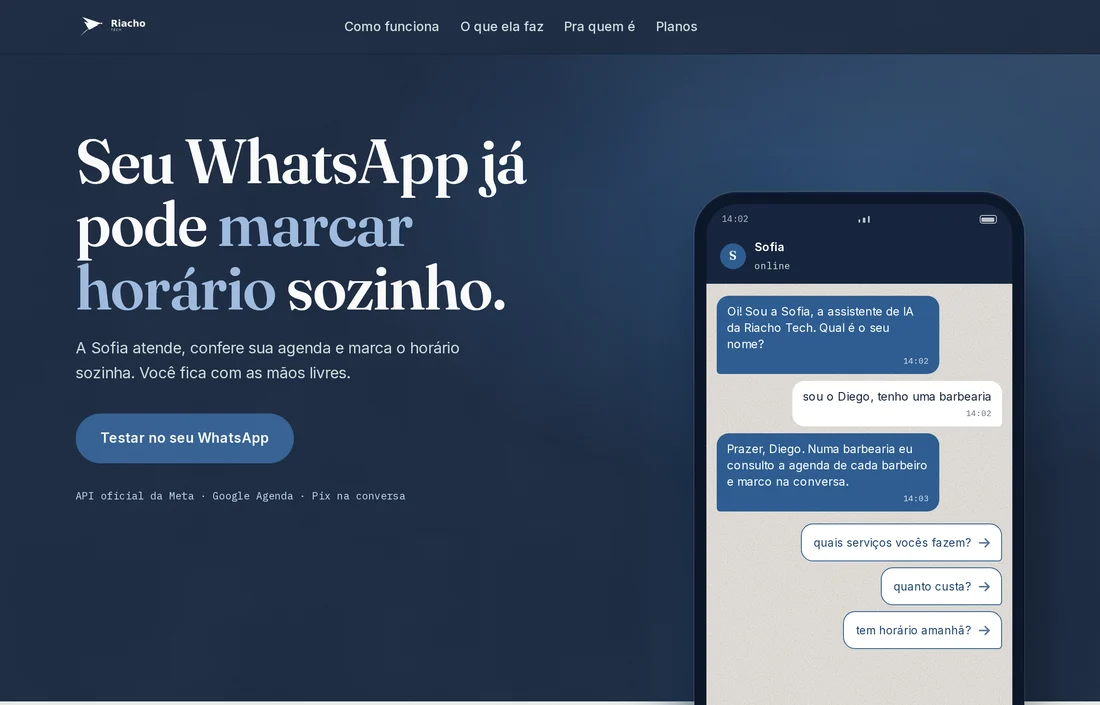
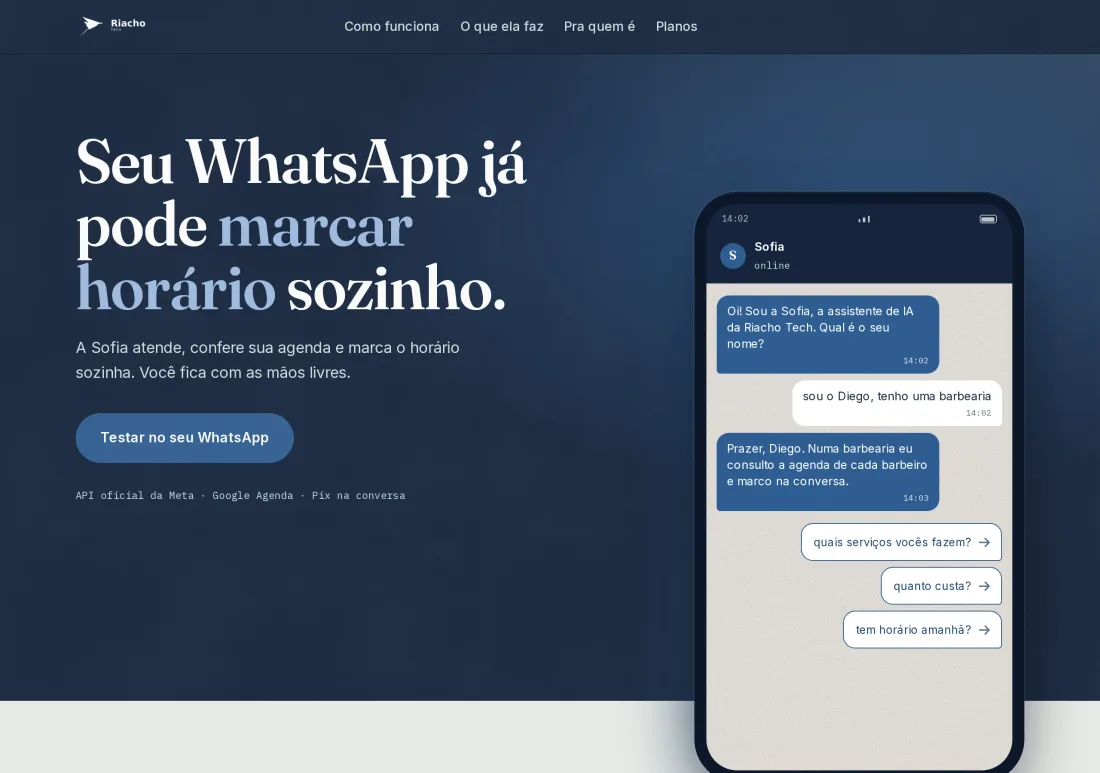
README: reescrito, e as capturas passam a mostrar o site que existe
O README descrevia uma estrutura que a home ja nao tem: falava de "O que ela
faz", "Como funciona" e "pra quem e", e os h2 de hoje sao outros. As capturas
eram de 10:15 -- depois do redesign, mas ANTES da landing page e antes da troca
da foto do catalogo, entao duas delas mostravam o site errado.

- oito capturas regeradas a partir da estrutura real, incluindo as tres
  primeiras da /landing-page/, que nao tinha nenhuma;
- quatro capturas de secoes que nao existem mais foram removidas; nenhuma
  imagem citada falta e nenhuma imagem no repositorio ficou orfa;
- 237 para 164 linhas, na forma dos READMEs irmaos: titulo que diz o que e,
  tabela de navegacao, secoes numeradas, paragrafo curto;
- sai o jargao sem funcao (CLS, LCP, is-crawlable, "raio nao concentrico") e o
  comando node -e de uma linha so, que ninguem ia rodar;
- a tabela de medicao ganha DATA e o comando que a rederiva, porque numero em
  README envelhece em silencio.

Conferido antes de commitar: os cinco scripts citados existem, as 11
conferencias batem com a saida do portao, e "tres das seis respondem ao toque" e
verdade -- seis <Bloco, tres com handler.

diff --git a/README.md b/README.md
@@ -1,237 +1,166 @@
-# riachotech-site
+# O site da Riacho Tech
 
-Site institucional da Riacho Tech, no ar em
-[riachotech.com.br](https://riachotech.com.br). A home é Next 15 + TypeScript em
-export estático — o servidor continua sem rodar build, só que agora o HTML sai
-pronto do `npm run build` em vez de ser escrito à mão. Três páginas herdadas
-(`privacidade.html`, `404.html` e `conectar/`) seguem em HTML com Tailwind
-compilado e commitado, e não mudam uma palavra.
+Duas páginas que vendem: a **home**, que apresenta a assistente de agendamento
+por WhatsApp, e a **`/landing-page/`**, que vende o serviço de landing page. No
+ar em [riachotech.com.br](https://riachotech.com.br).
 
-**Repositórios irmãos:**
-[`sofia-vitrine`](https://github.com/andrenv14/sofia-vitrine), a arquitetura do
-produto · [`sofia-eval`](https://github.com/andrenv14/sofia-eval), a avaliação
-de comportamento do modelo · [`sofia-agents`](https://github.com/andrenv14/sofia-agents), o processo
-de trabalho.
+São Next 15 em export estático — o servidor não roda build, recebe HTML pronto.
+Três páginas herdadas (`privacidade.html`, `404.html` e `conectar/`) seguem em
+HTML puro e não mudam.
+
+**Irmãos:** [`sofia-vitrine`](https://github.com/andrenv14/sofia-vitrine), a
+arquitetura do produto · [`sofia-eval`](https://github.com/andrenv14/sofia-eval),
+a avaliação de comportamento do modelo ·
+[`sofia-agents`](https://github.com/andrenv14/sofia-agents), o processo de
+trabalho.
+
+## O que tem aqui
+
+| Onde | O que é |
+|---|---|
+| [`app/`](app/), [`components/`](components/) | as duas páginas em React |
+| [`app/globals.css`](app/globals.css) | os tokens da marca — cor, tipografia, raio |
+| [`build/`](build/) | os cinco scripts que medem e travam o que vai ao ar |
+| [`public/`](public/) | as fotos e as páginas herdadas |
 
 ---
 
-## O site
+## 1. A home
 
-A primeira tela, em 1280 px. O celular da direita é markup da própria página, e
-a conversa de abertura chega mensagem a mensagem em vez de já estar lá. Não é
-captura de WhatsApp e não há cliente real nela — as perguntas são sobre a
-própria Riacho, porque o botão ao lado leva para o número onde a Sofia atende
-de verdade.
+![Primeira tela da home, 1280 px](docs/imagens/home-1280-dobra.webp)
 
-![Primeira tela do site em 1280 px](docs/imagens/home-1280-dobra.webp)
+O celular da direita é markup da própria página, não captura de WhatsApp. A
+conversa chega mensagem a mensagem, e as perguntas são sobre a própria Riacho —
+o botão ao lado leva ao número onde a assistente atende de verdade.
 
-"O que ela faz" é a seção que carrega o argumento. Cada bloco mostra o
-**artefato** daquela capacidade em vez de afirmá-la: o evento como nasce no
-Google Agenda, as duas mensagens da cobrança, os dois lembretes, o item do
-catálogo, o áudio transcrito e a conversa mudando de mão com a marca de quem
-falou. Três dos seis respondem ao toque — escolher um horário reescreve o evento
-**e** os dois lembretes, porque as três peças leem o mesmo objeto.
+A seção de capacidades mostra o **artefato** de cada uma em vez de afirmá-la: o
+evento como nasce no Google Agenda, as mensagens da cobrança, os lembretes, o
+item do catálogo com foto e preço. Três das seis respondem ao toque — escolher
+um horário reescreve o evento e os dois lembretes, porque as peças leem o mesmo
+objeto.
 
-![Seção "o que ela faz" em 1280 px](docs/imagens/home-1280-recursos.webp)
+![Seção de capacidades, 1280 px](docs/imagens/home-1280-capacidades.webp)
 
-"Como funciona" conta o fluxo pela HORA, e não por `01 — 02 — 03`: um ordinal
-diz "este é o segundo", a hora diz "isto levou um minuto", que é o argumento de
-venda. O rastro azul atravessa os três passos um de cada vez.
+E os planos, que é onde o site precisa ser mais claro:
 
-![Seção "como funciona" em 1280 px](docs/imagens/home-1280-como-funciona.webp)
+![Seção de planos, 1280 px](docs/imagens/home-1280-planos.webp)
 
-Em 390 px, três telas de celular — a primeira, o começo de "o que ela faz" e a
-lista de ramos. A lista troca o exemplo por ramo (clínica, escritório,
-barbearia, petshop, oficina) sem recarregar nada, e as cinco conversas fecham o
-agendamento: antes elas paravam na pergunta, e mostravam a Sofia oferecendo sem
-nunca marcar.
-
-Da esquerda para a direita: a primeira tela, "o que ela faz" e "pra quem é".
+Em 390 px:
 
 <p>
-  <img src="docs/imagens/home-390-dobra.webp" alt="Primeira tela do site em 390 px" width="255">
-  <img src="docs/imagens/home-390-recursos.webp" alt="Seção o que ela faz em 390 px" width="255">
-  <img src="docs/imagens/home-390-segmentos.webp" alt="Seção por ramo em 390 px" width="255">
+  <img src="docs/imagens/home-390-dobra.webp" alt="Primeira tela da home em 390 px" width="255">
+  <img src="docs/imagens/home-390-capacidades.webp" alt="Seção de capacidades em 390 px" width="255">
 </p>
 
-<!-- Largura fixa em `<img>`, e não uma tabela de três colunas: numa tabela o
-     GitHub dimensiona cada coluna pelo conteúdo do cabeçalho, então "a primeira
-     tela" e "pra quem é" davam colunas de larguras diferentes e as três telas
-     saíam com tamanhos diferentes, embora os arquivos tenham os mesmos 780x1688.
-     Achado do fundador. -->
+## 2. A `/landing-page/`
 
-E a seção de planos, que é onde o site precisa ser mais claro:
+![Primeira tela da landing page, 1280 px](docs/imagens/landing-1280-dobra.webp)
 
-![Seção de planos em 1280 px](docs/imagens/home-1280-planos.webp)
+Ela precisa **ser** a amostra do que vende: se não for a melhor página do site,
+desmente a própria oferta. Herda inteiro o vocabulário da home.
 
-## Stack
+A peça do herói **atravessa** a borda de baixo e termina dentro da seção
+seguinte. Isso é deliberado, e a alternativa foi testada: recortar a peça rente
+à virada de cor dá um corte reto num cartão branco, que lê como amputação.
 
-- **Home** — Next 15, React 19, TypeScript, Tailwind 4, `output: 'export'`. Sem
-  servidor: o `npm run build` gera arquivos estáticos. Os tokens de cor,
-  tipografia e raio vivem no `@theme` de `app/globals.css`, que é a fonte
-  executável da marca.
-- **Fontes** — Fraunces, Inter e IBM Plex Mono vêm por `next/font`, baixadas no
-  BUILD e servidas do próprio domínio. Isso mudou desde a versão anterior deste
-  README, que dizia o contrário: antes elas vinham do Google Fonts pela rede, e
-  se a rede falhasse a página renderizava com fonte de sistema sem nada acusar.
-  As três páginas herdadas ainda dependem do Google Fonts.
-- **Páginas herdadas** — `privacidade.html` e `404.html` consomem o `site.css`,
-  Tailwind compilado a partir de `build/tailwind-input.css` e commitado, porque
-  o servidor não roda build. `conectar/` tem `<style>` próprio.
-- **Zero biblioteca de animação.** Todo movimento é CSS, e todo movimento
-  desliga com `prefers-reduced-motion`.
+Para atravessar, ela precisa ser **absoluta e transbordar**, as duas coisas
+juntas — com só uma das duas, falha pela que falta. Absoluta, não entra na conta
+da altura do herói; sem recorte, o que passa disso invade a seção clara.
 
-## O que vale olhar aqui
+No celular não há espaço para atravessar, então a peça é cortada rente à dobra e
+**desvanece** antes da borda. Sem o desvanecimento o corte caía onde calhasse —
+partiu "Corte · R$ 60" com as letras 34% visíveis, e meia letra cortada lê como
+falha de renderização. A máscara resolve por critério: o conteúdo some antes da
+borda, seja qual for.
 
-**`build/conferir-estaticas.js`** é o portão do export, e roda dentro do
-`npm run build`. São 11 conferências, e a que mais importa: a âncora
+<p>
+  <img src="docs/imagens/landing-390-dobra.webp" alt="Primeira tela da landing page em 390 px" width="255">
+</p>
+
+O preço é público e está na página, sem "fale com um especialista":
+
+![Seção de preço da landing page, 1280 px](docs/imagens/landing-1280-preco.webp)
+
+## 3. O que trava o que vai ao ar
+
+Cinco scripts em [`build/`](build/). Os dois primeiros são os que importam.
+
+**`conferir-estaticas.js`** roda dentro do `npm run build` e reprova o export se
+algo essencial sumir. São 11 conferências, e a que mais importa: a âncora
 `#uso-limitado-google` da política de privacidade tem de continuar existindo —
-ela está num e-mail ao time de verificação OAuth do Google, e um revisor vai
-abri-la. O portão também prova que o texto legal saiu idêntico ao da origem, e
-tem um controle negativo (uma âncora inventada que ele precisa NÃO encontrar),
-porque comando que devolve vazio não distingue "não achei" de "não olhei".
+ela está num e-mail ao time de verificação do Google, e alguém vai abri-la. Tem
+também um controle negativo: uma âncora inventada que ele precisa **não**
+encontrar, porque comando que devolve vazio não distingue "não achei" de "não
+olhei".
 
-**`build/medir-site.js`** abre qualquer página em 390, 820 e 1280 px e devolve
-números: contraste reprovado por par cor/fundo composto, corpo abaixo de 16 px,
-alvo de toque menor que 44×44, rolagem horizontal, erro de console. Nenhuma
-mudança visual vai ao ar sem passar por ele.
+**`medir-site.js`** abre qualquer página em 390, 820 e 1280 px e devolve números:
+contraste reprovado, texto de corpo abaixo de 16 px, alvo de toque menor que
+44×44, rolagem horizontal, erro de console. Nenhuma mudança visual vai ao ar sem
+passar por ele.
 
-**`build/detectar-tells.js`** conta os padrões que fazem uma página parecer
-gerada: densidade de travessão, rótulo mono repetido, rótulo numerado, hero que
-não cabe na tela, duas chamadas querendo a mesma coisa na primeira tela, e raio
-de canto não concêntrico. Ele conta; o julgamento é de quem lê.
+Os outros três: `detectar-tells.js` conta padrões que fazem uma página parecer
+gerada por IA — ele conta, o julgamento é de quem lê; `texto-visivel.js` compara
+o texto de uma página antes e depois de uma mudança, e foi ele que garantiu que
+a política de privacidade mudasse de forma sem perder uma palavra;
+`servir-gzip.js` serve o export com compressão, que é o que o servidor faz —
+medir sem gzip dá um número pessimista sobre um servidor que não existe.
 
-**`build/texto-visivel.js`** extrai o texto visível de uma página antes e depois
-de uma mudança e compara os dois. Foi ele que garantiu que a política de
-privacidade mudasse de forma sem perder uma palavra.
+## 4. Medido
 
-**`build/servir-gzip.js`** serve o export COM compressão, que é o que a VPS faz.
-Medir sem gzip contra uma produção que comprime dá um número pessimista sobre um
-servidor que não existe — a diferença medida foi de 27 pontos de Lighthouse.
-
-**`.claude/skills/`** é como se trabalha neste site. A `design-site` traz o chão
-de regras (contraste, medida de linha, alvos, estados, foco visível) e o fluxo
-de acabamento; a `nao-slop` traz o que vem antes e depois disso — declarar a
-leitura antes de desenhar, e os tells contáveis depois. Escrevi as duas a partir
-do que serve no kit `impeccable` do `pbakaus`
-([Apache 2.0](https://github.com/pbakaus/impeccable)) e da `taste-skill` do
-`Leonxlnx`, que não instalei: o primeiro traz um hook que reescreve
-`.claude/settings.local.json` a cada edição de interface, e permissão só muda
-quando uma pessoa decide.
-
-## Medido
-
-Nas três páginas, com o servidor local com gzip e o Chromium do Playwright:
+Medido em 08/09/2026, nas três páginas, com gzip e o Chromium do Playwright.
+Os números de contraste, corpo e alvo se rederivam com `npm run medir`; os de
+Lighthouse, com o Chromium sobre `npm run servir`.
 
 | | home | privacidade | 404 |
 |---|---:|---:|---:|
 | acessibilidade | 100 | 100 | 100 |
 | performance | 89 | 93 | 95 |
 | boas práticas | 96 | 100 | 96 |
-| SEO | 100 | 63 | 60 |
-| CLS (quanto a página pula ao carregar) | 0 | 0,021 | 0 |
-| contraste reprovado (390/820/1280) | 0 | 0 | 0 |
-| corpo abaixo de 16 px | 0 | 0 | 0 |
-| alvo abaixo de 44×44 | 0 | 3 em 390, 5 acima | 0 |
+| contraste reprovado | 0 | 0 | 0 |
+| texto de corpo abaixo de 16 px | 0 | 0 | 0 |
+| alvo de toque abaixo de 44×44 | 0 | 3 a 5 | 0 |
 
-O SEO baixo nas duas últimas é `is-crawlable`, e é de propósito: as duas têm
-`<meta robots noindex>`.
+Os alvos da política são links dentro de parágrafo, exceção declarada. São 3 em
+390 px e 5 nas larguras maiores: um link que cabe numa linha em tela larga quebra
+em duas na estreita, e quebrado deixa de ser contado. **Medida de acessibilidade
+lida numa largura só é medida incompleta** — o mesmo engano já tinha escondido
+dois alvos da home, que a barra de topo cobria em 390 px.
 
-Os alvos da política são links dentro de parágrafo — exceção declarada na skill.
-**São 3 em 390 px e 5 em 820 e 1280**, e a versão anterior deste README dizia
-"3" porque só o número de 390 tinha sido lido. Os dois que só aparecem acima de
-390 são o link "Google API Services User Data Policy", que em telas largas cabe
-numa linha e nas estreitas quebra em duas — quebrado, ele deixa de ser contado
-como um alvo baixo. É o mesmo engano que a barra de topo escondeu por semanas:
-lá os dois únicos alvos reprovados da home sumiam da medição porque em 390 o
-nav os esconde. **Medida de acessibilidade lida numa largura só é medida
-incompleta**, e as duas vezes o buraco ficou do mesmo lado.
-
-A performance da home não é meta, e isso é decisão do dono: CLS zero não se
-troca por pontos. O número oscila de 89 a 93 entre rodadas — o que se persegue é
-regressão grande, e uma apareceu: a luz do hero, animando desde o primeiro
-quadro, custou 4 pontos e meio segundo de LCP. Dois segundos de atraso no início
-da animação devolveram os dois, e ninguém vê diferença numa ida e volta de 26 s.
-
-## Escopo
-
-O redesign de 08/09/2026 mexeu na home inteira e não tocou nas três páginas
-herdadas. O que mudou de fundo:
-
-- **artefato no lugar de afirmação** — a seção de capacidades mostrava dois
-  blocos sem nenhuma prova, e um deles era o principal;
-- **peças alinhadas por faixa** — em cada faixa de blocos, as peças esticam e o
-  conteúdo se distribui, então topo e pé caem na mesma linha em qualquer
-  largura. Antes o vão entre a peça e o título ia de 28 a 146 px na mesma faixa;
-- **textura em duas escalas** — grão fino de perto e mancha larga de longe, as
-  duas em SVG embutido no CSS, sem arquivo nem requisição. Grão fino sozinho
-  some: o olho o integra e volta a ver cor lisa;
-- **movimento que informa** — a conversa do hero chegando, o rastro do tempo, o
-  lembrete que chega, a seção corrente acesa na barra. Nenhum é entrada de
-  seção, que é o padrão que a `nao-slop` reprova.
-
-O que **não** se faz aqui: telefone de cliente, nome de cliente, captura de
-conversa real, e nada que se pareça com credencial. A peça do Pix mostra a chave
-como e-mail, que é o `contato@riachotech.com.br` já publicado no rodapé — uma
-versão anterior desenhava um código copia-e-cola plausível, e invenção com cara
-de chave é pior que invenção nenhuma, porque quem lê não tem como saber que é
-falsa.
-
-## `/landing-page/` — a página que vende landing page
-
-Ela precisa SER a amostra do serviço que vende: se não for a melhor página do
-site, desmente a própria oferta. Herda inteiro o vocabulário da home (`.peca`,
-`.textura`, as luzes, `.cartao-plano`, `.combo-luz`, `.fala-peca`,
-`.plan-item`); as duas classes próprias são `.mini-topo` e `.mini-zap`.
-
-**A peça do herói ATRAVESSA a borda de baixo do herói** e termina dentro da
-seção das mensagens — é o gesto do celular da home, e ele existe porque a
-alternativa falha: recortar a peça rente à virada de cor dá um corte reto num
-cartão branco, que lê como amputação e não como continuação.
-
-Para isso ela é **absoluta E transborda**, as duas coisas juntas. Absoluta, não
-entra na conta da altura do herói, então quem decide onde o navy termina é a
-coluna de texto e não sobra vão morto ao lado; sem recorte, o que passa disso
-invade a seção clara. Ter só uma das duas falha pela que falta — foi medido nas
-duas direções. Ela passa por cima da seção seguinte porque `.hero-escuro` tem
-`z-index: 1` e a seção de baixo não tem.
-
-**A seção das mensagens começa com um respiro grande no PC**, para o conteúdo
-dela nascer abaixo do pé da peça. O valor é medido, e este comando o rederiva —
-`folga` negativa quer dizer que a peça cresceu e o respiro precisa crescer
-junto (rode `npm run servir` antes):
-
-```
-node -e "const{chromium}=require('playwright');(async()=>{const b=await chromium.launch();for(const w of [1850,1280,1024,900]){const p=await b.newPage({viewport:{width:w,height:1000}});await p.goto('http://127.0.0.1:8111/landing-page/?v='+Date.now(),{waitUntil:'networkidle'});await p.waitForTimeout(2200);console.log(w,await p.evaluate(()=>{const q=document.querySelector('.peca').getBoundingClientRect(),i=document.querySelector('#mensagens img').getBoundingClientRect();return{folga:Math.round(i.top-q.bottom)}}));await p.close()}await b.close()})()"
-```
-
-**As duas fotos** (`public/salao-cadeira-840.webp` e
-`public/mensagem-que-chega-900.webp`) foram geradas pelo fundador a partir de
-`~/para-revisao/prompts-imagens-landing-page.md`. A do salão mora na faixa do
-topo da peça, com o título POR BAIXO e nunca por cima: texto sobre foto exigiria
-véu escuro para passar nos 4,5:1, e o véu mudaria o clima da peça inteira.
-
-## Operação
+## 5. Operação
 
 - `npm run build` gera o export em `out/` e roda o portão das 11 conferências.
-- `npm run servir` sobe `out/` em `127.0.0.1:8111` com gzip, que é o que a VPS
-  entrega. O servidor manda `max-age=300`: ao recarregar depois de um build, use
-  `?v=alguma-coisa` na URL, senão você mede a página anterior.
-- `npm run medir` mede qualquer página nos três tamanhos; `npm run tells` conta
-  os tells; `npm run og` regenera a prévia do link a partir dos próprios tokens.
-- **O DEPLOY MUDOU em 08/09/2026, e a forma antiga é armadilha.** O diretório
-  servido (`/var/www/riachotech`) deixou de ser um clone deste repositório e
-  passou a conter **só o conteúdo de `out/`**. Deploy é `npm run build` e depois
-  `rsync -a --delete --exclude='.git' out/ /var/www/riachotech/`.
-  **`git pull` no diretório servido NÃO é deploy — é pior que quebrar:** ele
-  devolve a página ANTIGA, sem erro nenhum, porque o `.git` de lá segue parado
-  no commit anterior de propósito, e é ele que dá o rollback
-  (`git checkout . && git clean -fd`). O estado se rederiva com
-  `git -C /var/www/riachotech status --porcelain | grep index.html`, que tem de
-  devolver `M`. Dois requisitos travam qualquer forma futura: a URL
-  `privacidade.html` **com** `.html` não muda, e a âncora
-  `#uso-limitado-google` não some.
-- `conectar/` é a página do Embedded Signup (o fluxo oficial da Meta para o
-  cliente conectar o número dele), aberta a partir de um link de convite
-  assinado. Ela não guarda segredo: o id do app e o da configuração são públicos
-  por natureza, e o token do convite é validado no back-end.
+- `npm run servir` sobe `out/` em `127.0.0.1:8111` com gzip. Ele manda
+  `max-age=300`: ao recarregar depois de um build, use `?v=algo` na URL, senão
+  você mede a página anterior.
+- `npm run medir` mede qualquer página nos três tamanhos.
+
+**O deploy mudou em 08/09/2026, e a forma antiga é armadilha.** O diretório
+servido (`/var/www/riachotech`) deixou de ser um clone deste repositório e passou
+a conter só o conteúdo de `out/`:
+
+```
+npm run build
+rsync -a --delete --exclude='.git' out/ /var/www/riachotech/
+```
+
+**`git pull` no diretório servido não é deploy — e é pior que quebrar: devolve a
+página antiga sem erro nenhum.** O `.git` de lá segue parado no commit anterior
+de propósito, e é ele que dá o rollback (`git checkout . && git clean -fd`). O
+estado se confere com `git -C /var/www/riachotech status --porcelain | grep index.html`,
+que tem de devolver `M`.
+
+Dois requisitos travam qualquer mudança futura de forma: a URL `privacidade.html`
+**com** `.html` não muda, e a âncora `#uso-limitado-google` não some.
+
+## 6. O que não se faz aqui
+
+Telefone de cliente, nome de cliente, captura de conversa real, e nada que se
+pareça com credencial. A peça do Pix mostra a chave como e-mail — o
+`contato@riachotech.com.br`, que já está publicado no rodapé. Uma versão anterior
+desenhava um código copia-e-cola plausível, e invenção com cara de chave é pior
+que invenção nenhuma: quem lê não tem como saber que é falsa.
+
+As fotos são geradas, e duas regras valem para todas: nenhuma leva texto por cima
+(o véu escuro necessário para passar no contraste mudaria o clima da peça) e
+nenhuma tem rosto (rosto gerado denuncia imagem falsa em tamanho pequeno, e
+passaria a parecer cliente nosso).
